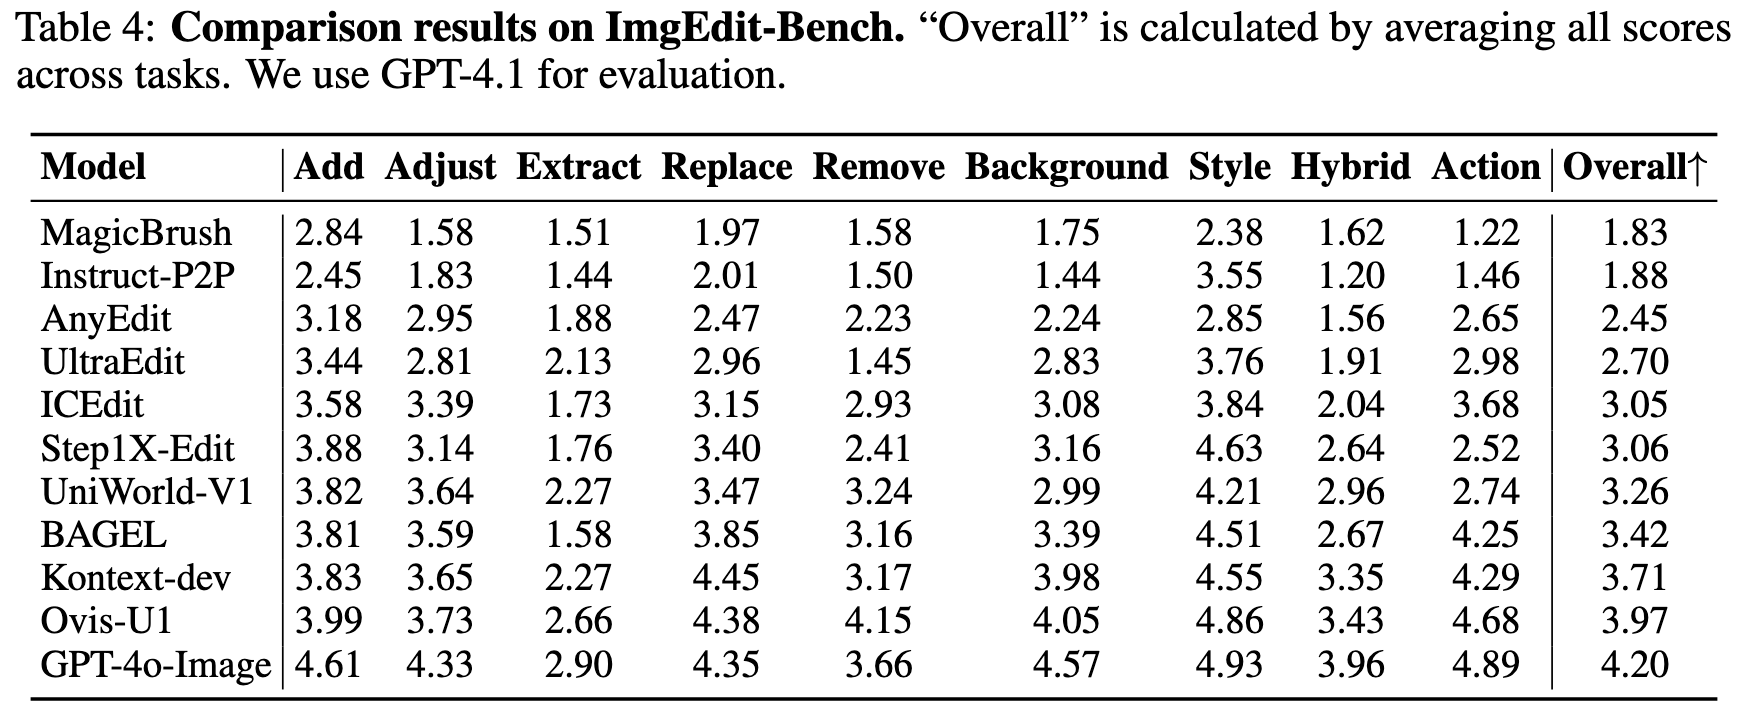
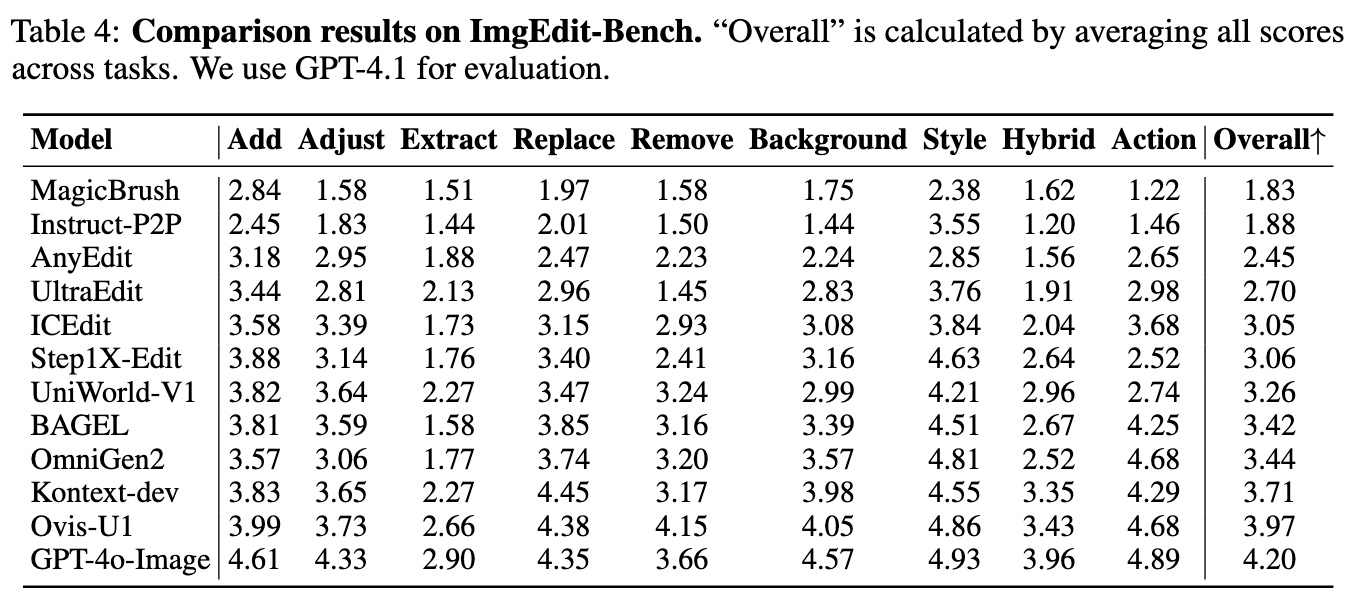
update

Changed region(s): [[0.0, 0.0, 1.0, 1.0]]

diff --git a/README.md b/README.md
@@ -44,7 +44,7 @@ It includes a basic testsuite, a challenging single-turn suite, and a dedicated 
 We evaluate both open-source and proprietary models, as well as ImgEdit-E1.
 
 # 🔥 News
-- [2025.07.21] We update our leaderboard [here](#jump), add ICEdit, BAGEL, Flux-Kontext-dev and Ovis-U1 on ImgEditBench.
+- [2025.07.27] We update our leaderboard [here](#jump), add ICEdit, BAGEL, OmniGen2, Flux-Kontext-dev and Ovis-U1 on ImgEditBench.
 - [2025.06.24] We update some results of [ImgEdit-Bench](https://github.com/PKU-YuanGroup/ImgEdit#%EF%B8%8F-imgedit-bench), including **BAGEL** and **Uniworld-V1**.
 - [2025.06.03] We have open-sourced **UniWorld-V1**, which inherits the powerful editing capabilities of **ImgEdit-E1**. It is trained on 700K subset of ImgEdit. For more details, please refer to https://github.com/PKU-YuanGroup/UniWorld-V1.
 - [2025.05.26] We have finished upload the ImgEdit datasets together with original dataset.
